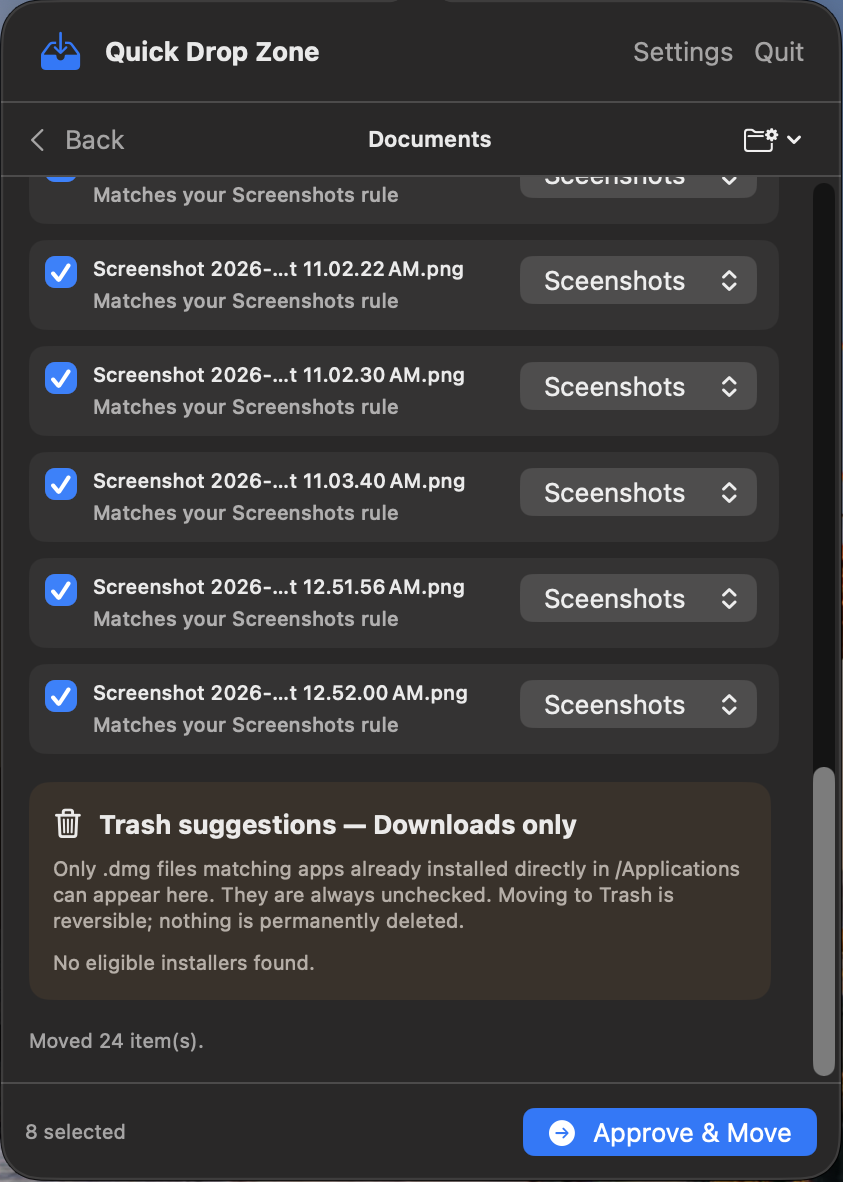
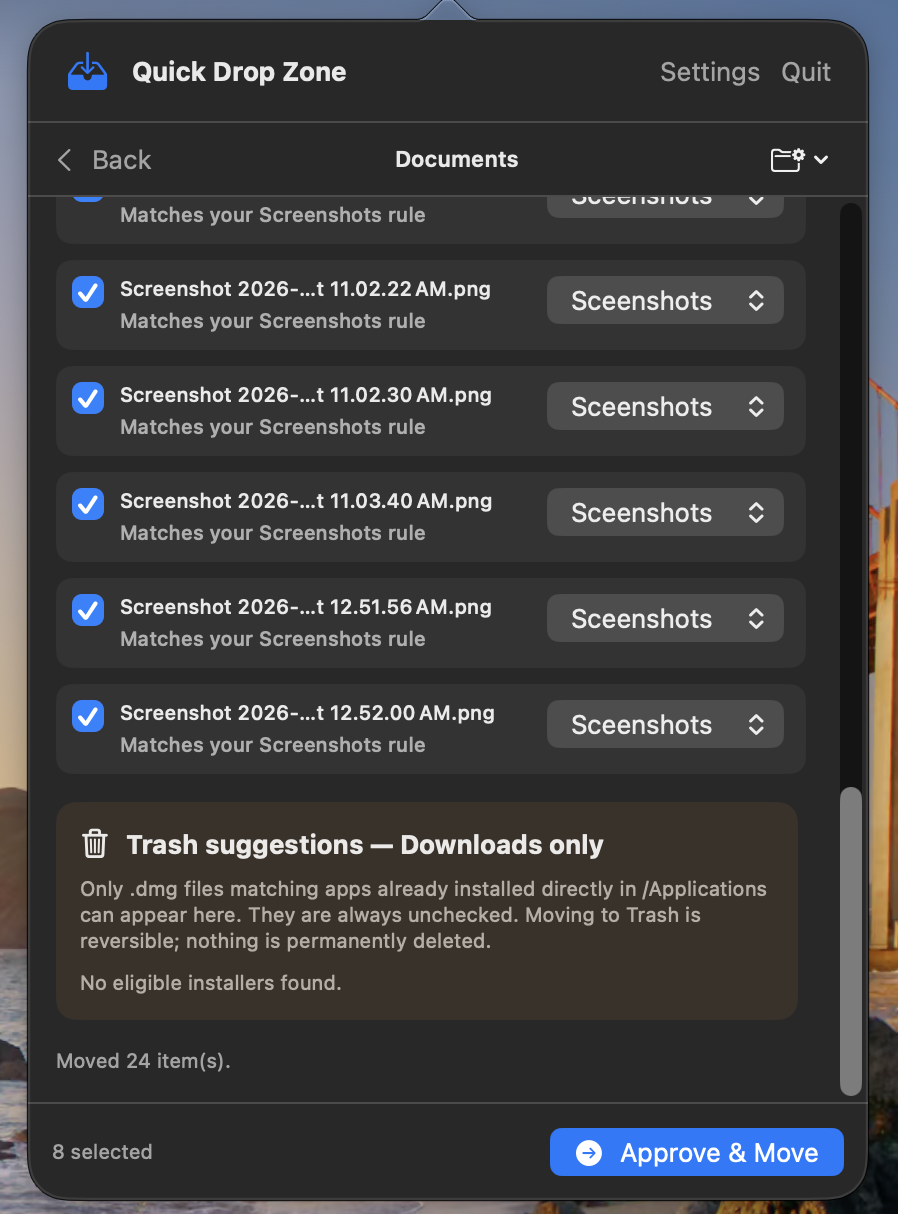
docs: use owner-supplied Quick Drop Zone screenshots

diff --git a/README.md b/README.md
@@ -13,7 +13,15 @@
 Cleanup suggestions stay visible until you approve them.
 
 <p align="center">
-  <img src="docs/images/cleanup-review.png" width="620" alt="Quick Drop Zone cleanup review with eight selected screenshot files set to Screenshots; the trash-suggestions section says No eligible installers found, and Approve &amp; Move is visible">
+  <img src="docs/images/cleanup-review.png" width="620" alt="Quick Drop Zone cleanup review showing checked screenshot files assigned to Screenshots, the Downloads-only trash-suggestions note, and 8 selected with Approve &amp; Move available">
+</p>
+
+## Undo the latest move
+
+A completed move can be reversed from the main window.
+
+<p align="center">
+  <img src="docs/images/undo-last-move.png" width="620" alt="Quick Drop Zone main window showing 24 moved items and the Undo Last Move control">
 </p>
 
 ## Features
